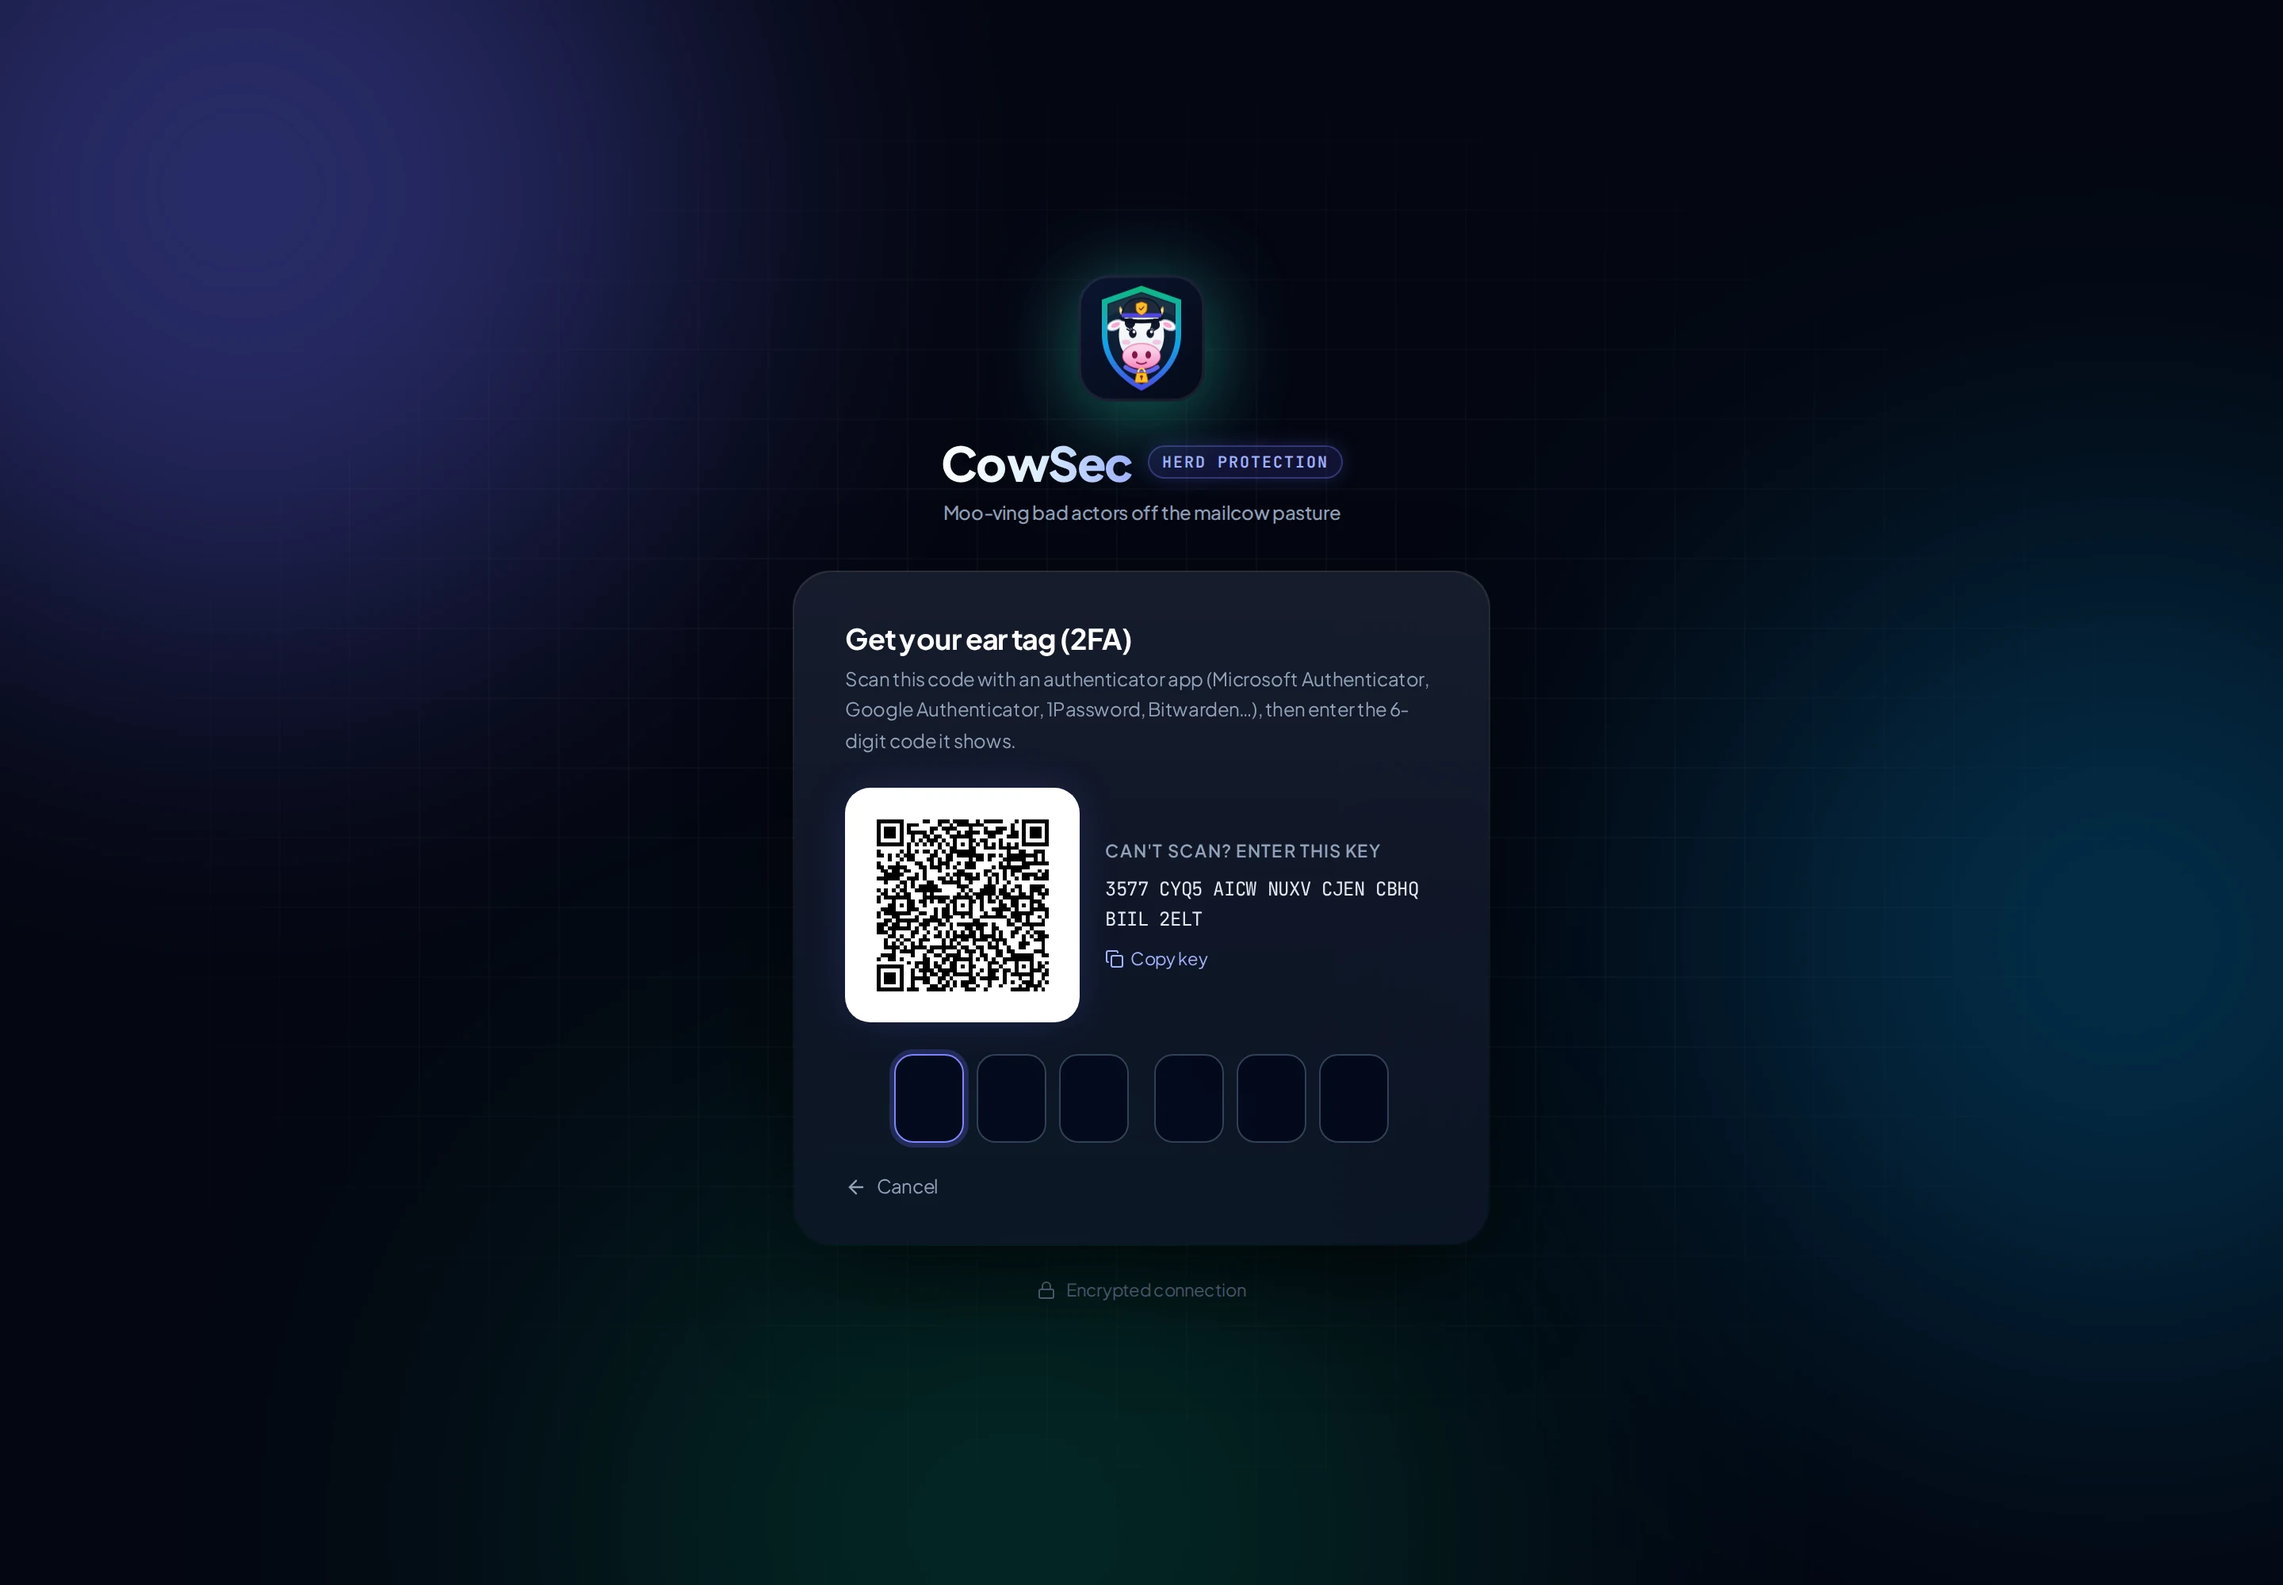
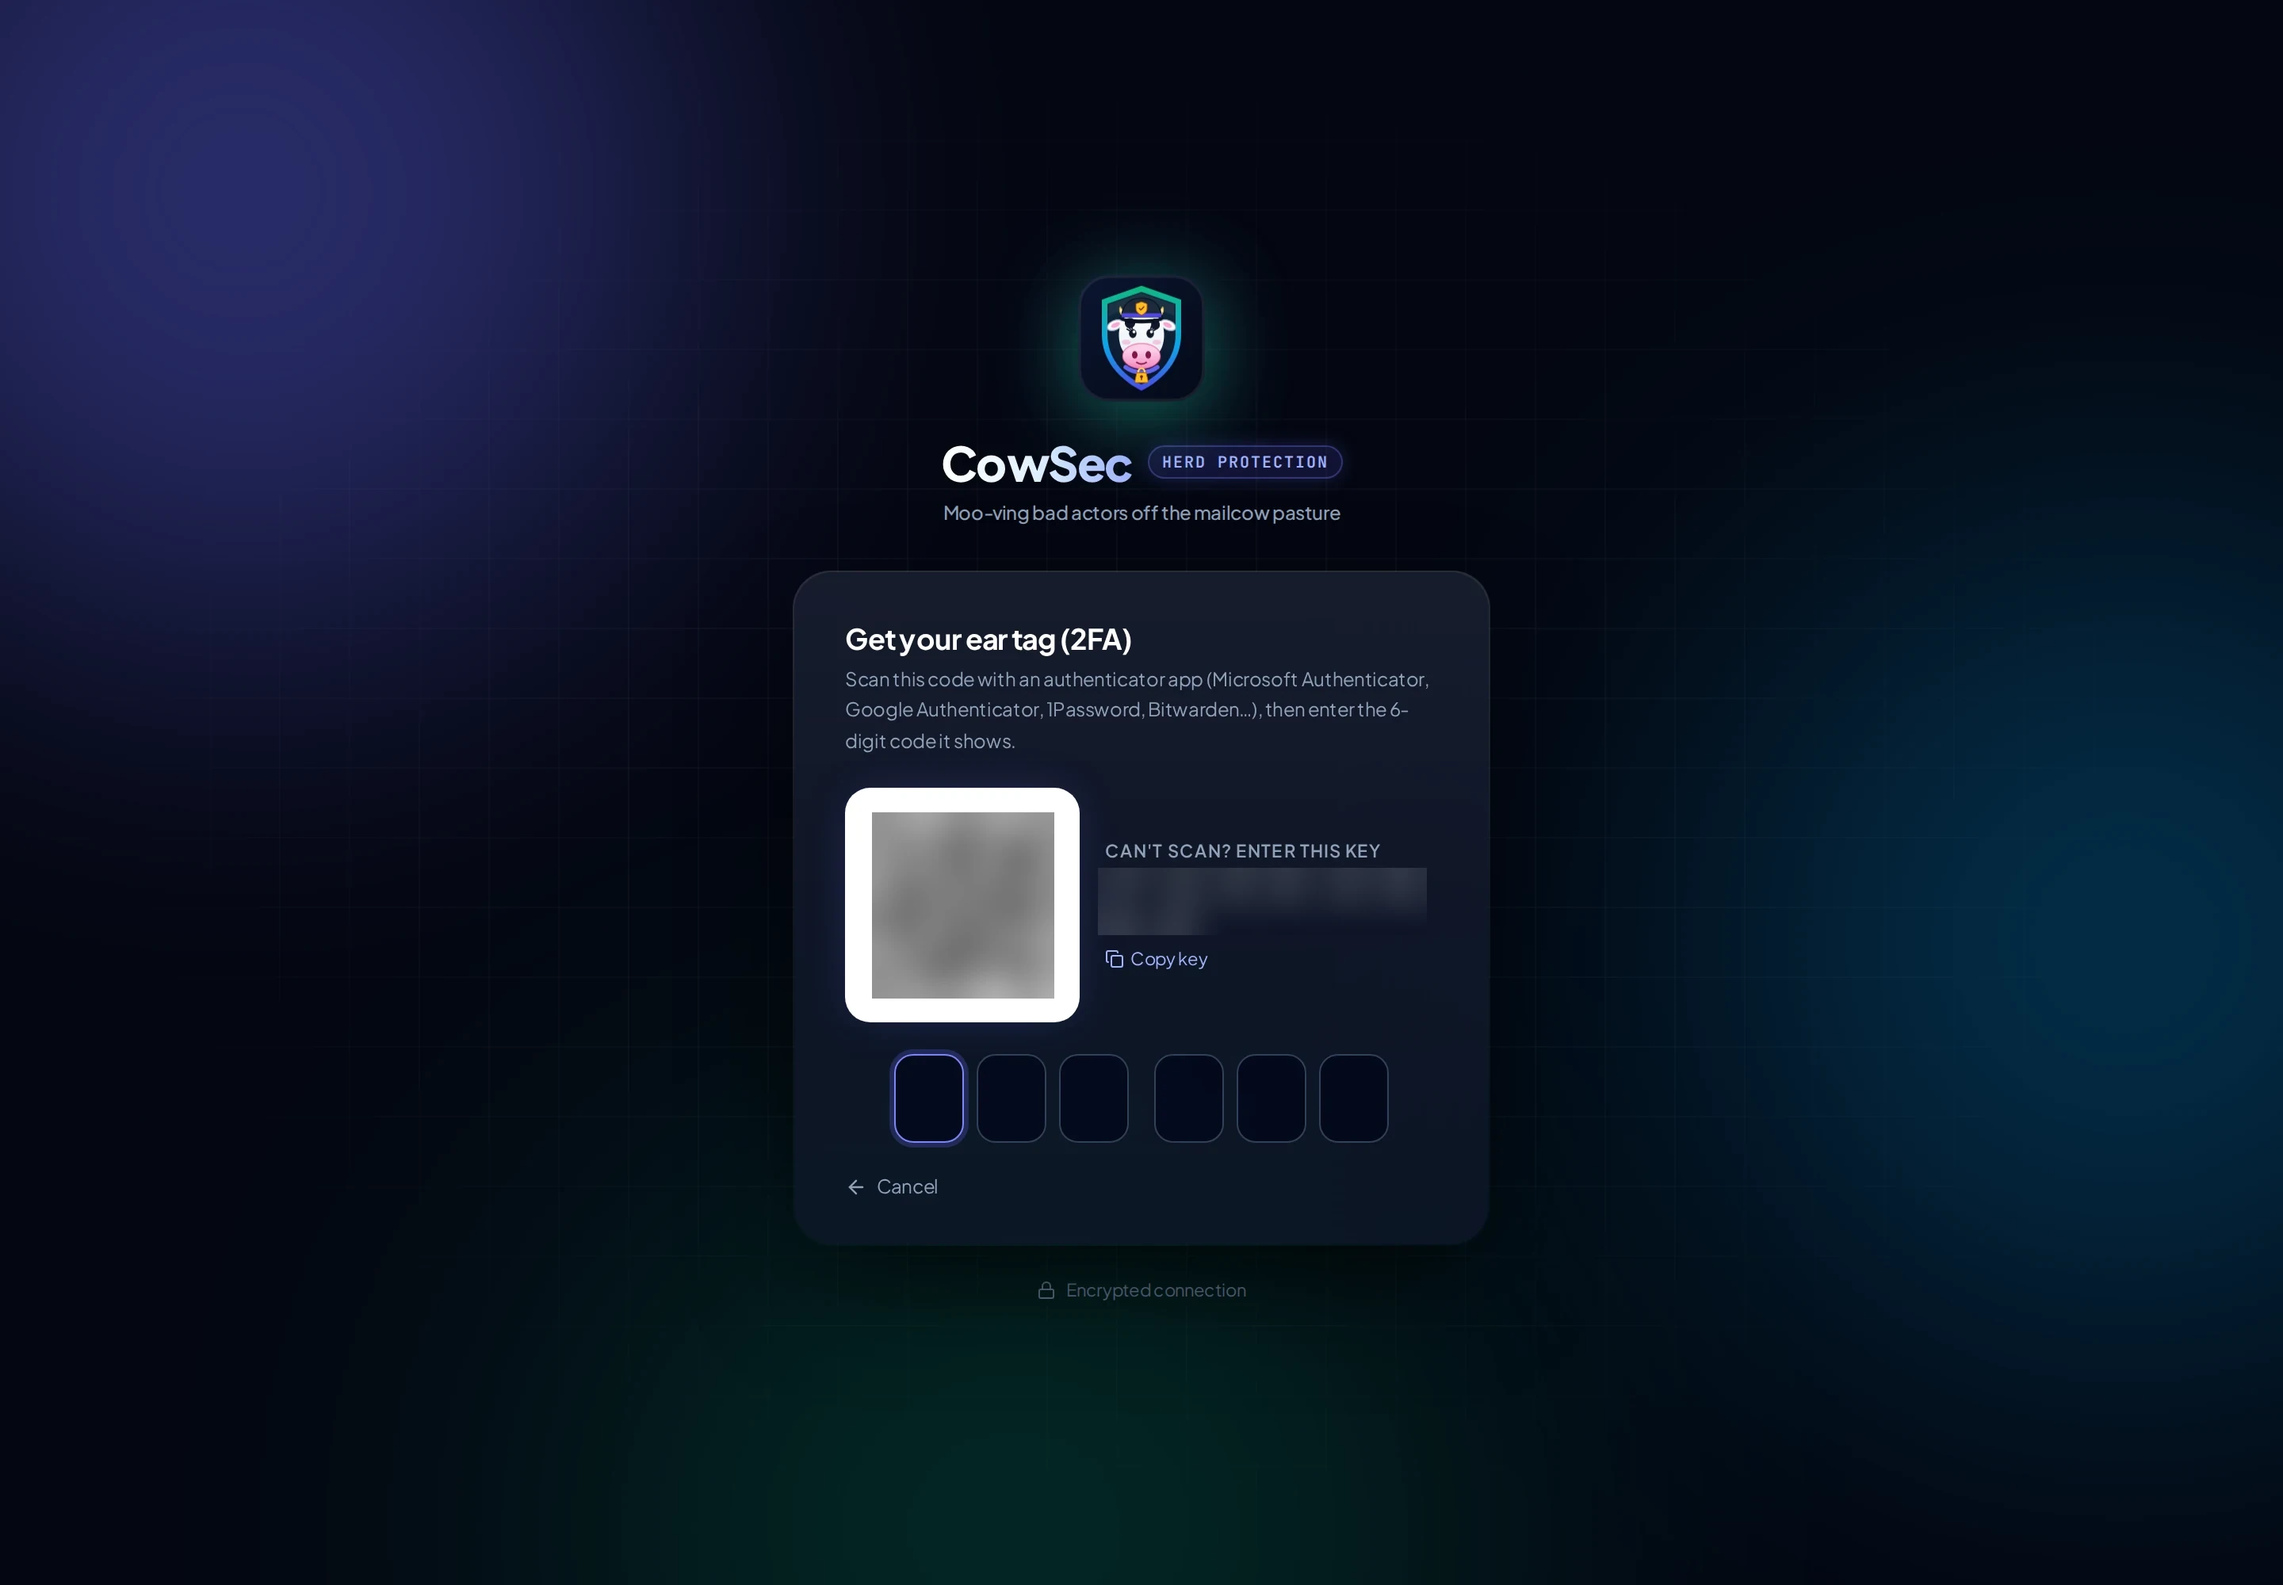
fix(security): build on patched Go, HSTS, stricter inputs, cleaner screenshots
- Pin the Go toolchain to 1.26.10 and golang.org/x/net to v0.62.0: binaries built
  on Go 1.26.0 carried 49 known standard-library vulnerabilities (net/http,
  crypto/tls, crypto/x509). CI now runs govulncheck before building.
- Send Strict-Transport-Security when the console is served through the edge.
- Check the IP or ID when deleting a decision, and match mailcow domains in full.
- Screenshots: the e2e sanitiser now covers textareas and hides the TOTP QR code
  and setup key; the alias and 2FA enrolment screenshots are corrected to match.

Changed region(s): [[0.375, 0.496, 0.625, 0.651]]

diff --git a/test/e2e/lib.js b/test/e2e/lib.js
@@ -86,15 +86,19 @@ async function sanitize(p, cfg) {
   const subs = [...(s.domains || []).map((d) => [d, 'example.com']), ...(s.ips || []).map((ip) => [ip, '192.0.2.10'])];
   await p.evaluate((pairs) => {
     const res = pairs.map(([from, to]) => [new RegExp(from.replace(/[.*+?^${}()|[\]\\]/g, '\\$&'), 'g'), to]);
-    res.push([/192\.168\.\d+\.\d+/g, '192.0.2.1'], [/\b10\.\d+\.\d+\.\d+\b/g, '192.0.2.2']);
+    res.push([/192\.168\.\d+\.\d+/g, '192.0.2.1'], [/\b10\.\d+\.\d+\.\d+\b/g, '192.0.2.2'],
+      [/\b(?:[A-Z2-7]{4} ){3,}[A-Z2-7]{1,4}\b/g, 'XXXX XXXX XXXX XXXX']); // a TOTP setup key, shown in groups of four
     const fix = (t) => res.reduce((acc, [re, to]) => acc.replace(re, to), t);
     const undo = (window.__undo = []);
     const w = document.createTreeWalker(document.body, NodeFilter.SHOW_TEXT);
     for (let n = w.nextNode(); n; n = w.nextNode()) {
       if (n.nodeValue) { const o = n.nodeValue, f = fix(o); if (f !== o) { undo.push(() => { n.nodeValue = o; }); n.nodeValue = f; } }
     }
-    document.querySelectorAll('input').forEach((i) => {
+    document.querySelectorAll('input, textarea').forEach((i) => {
       if (i.type !== 'password' && i.value) { const o = i.value; i.value = fix(o); undo.push(() => { i.value = o; }); }
+    });
+    document.querySelectorAll('img[alt="Authenticator QR code"]').forEach((i) => {
+      const o = i.style.filter; i.style.filter = 'blur(12px)'; undo.push(() => { i.style.filter = o; });
     });
   }, subs);
 }

diff --git a/packaging/lib/setup_engine.py b/packaging/lib/setup_engine.py
@@ -2630,7 +2630,7 @@ def mailcow_da_acl():
 
 def mailcow_footer(domain):
     """A domain's footer from mailcow's database: the API can set it but not read it."""
-    if not re.match(r"^[a-z0-9](?:[a-z0-9-]{0,61}[a-z0-9])?(?:\.[a-z0-9](?:[a-z0-9-]{0,61}[a-z0-9])?)+$", domain):
+    if not re.fullmatch(r"[a-z0-9](?:[a-z0-9-]{0,61}[a-z0-9])?(?:\.[a-z0-9](?:[a-z0-9-]{0,61}[a-z0-9])?)+", domain):
         raise StepError("invalid domain")
     mc = find_mailcow()
     if not mc:
@@ -2655,7 +2655,7 @@ def mailcow_footer(domain):
 
 def mailcow_mta_sts(domain):
     """A domain's MTA-STS policy from mailcow's database (the API can set it but not read it)."""
-    if not re.match(r"^[a-z0-9](?:[a-z0-9-]{0,61}[a-z0-9])?(?:\.[a-z0-9](?:[a-z0-9-]{0,61}[a-z0-9])?)+$", domain):
+    if not re.fullmatch(r"[a-z0-9](?:[a-z0-9-]{0,61}[a-z0-9])?(?:\.[a-z0-9](?:[a-z0-9-]{0,61}[a-z0-9])?)+", domain):
         raise StepError("invalid domain")
     mc = find_mailcow()
     if not mc:

diff --git a/cmd/cowsec/main.go b/cmd/cowsec/main.go
@@ -6,6 +6,7 @@ package main
 import (
 	"fmt"
 	"log"
+	"net"
 	"net/http"
 	"os"
 	"path/filepath"
@@ -186,6 +187,11 @@ func securityHeaders(next http.Handler) http.Handler {
 		h.Set("X-Content-Type-Options", "nosniff")
 		h.Set("Referrer-Policy", "same-origin")
 		h.Set("Content-Security-Policy", "default-src 'self'; img-src 'self' data:; font-src 'self' data:; style-src 'self' 'unsafe-inline'; frame-ancestors 'none'")
+		// Behind the edge, which always serves the console over HTTPS. Not includeSubDomains:
+		// other sites on the same parent domain aren't ours to pin.
+		if host, _, err := net.SplitHostPort(r.RemoteAddr); err == nil && net.ParseIP(host).IsLoopback() && r.Header.Get("X-Forwarded-Proto") == "https" {
+			h.Set("Strict-Transport-Security", "max-age=31536000")
+		}
 		next.ServeHTTP(w, r)
 	})
 }

diff --git a/internal/crowdsec/crowdsec.go b/internal/crowdsec/crowdsec.go
@@ -426,6 +426,14 @@ func (t *Target) AddDecision(ip, duration, reason, decisionType string) (string,
 
 // DeleteDecision removes a decision by IP or ID
 func (t *Target) DeleteDecision(ip, id string) (string, error) {
+	if id != "" && !regexp.MustCompile(`^[0-9]{1,19}$`).MatchString(id) {
+		return "", fmt.Errorf("decision ID must be a number")
+	}
+	if id == "" && ip != "" && net.ParseIP(ip) == nil {
+		if _, _, err := net.ParseCIDR(ip); err != nil {
+			return "", fmt.Errorf("%q is not an IP address or CIDR range", ip)
+		}
+	}
 	var args []string
 	if id != "" {
 		args = []string{"decisions", "delete", "--id", id}
